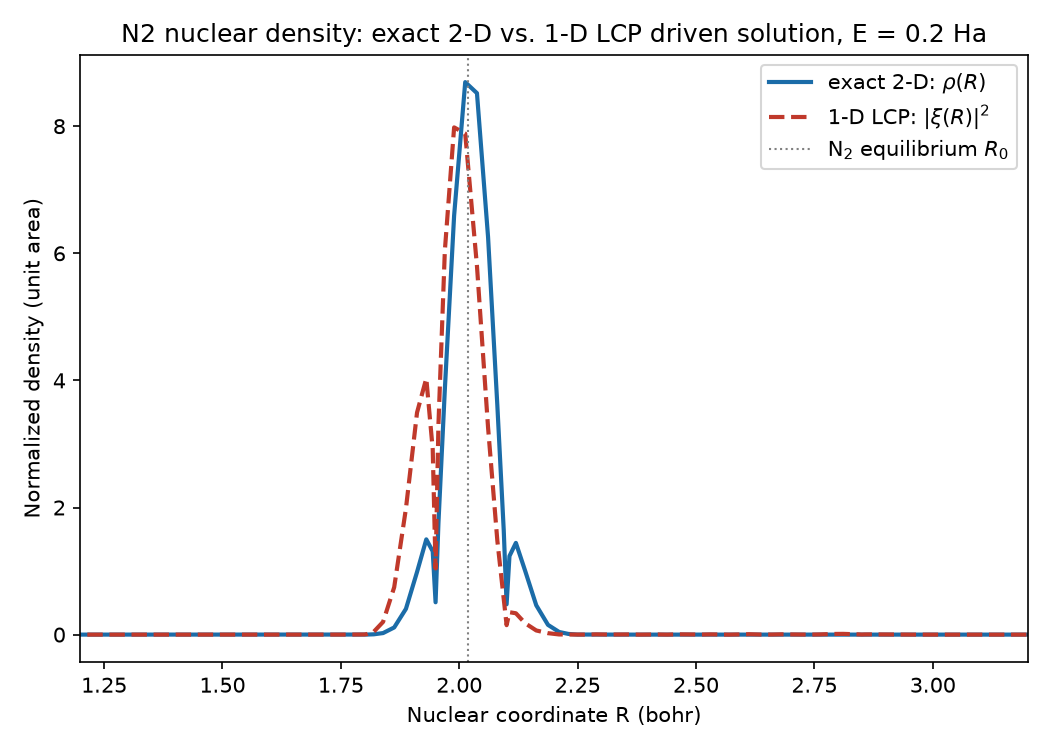
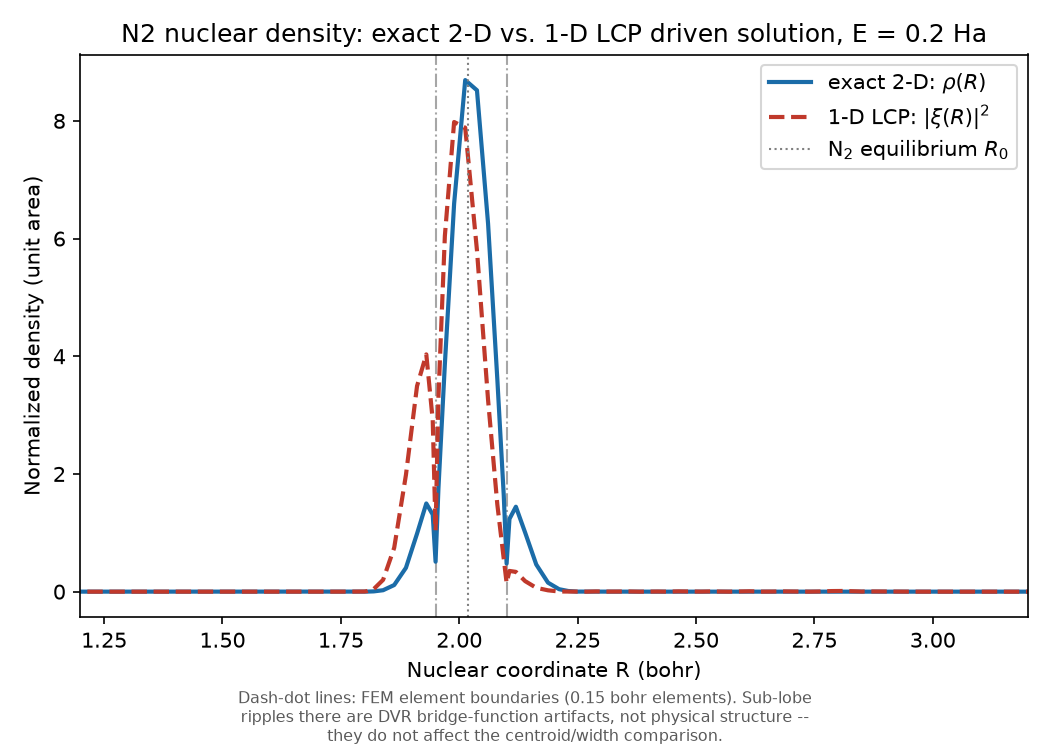
fix(n2-2d): correct nuclear-density figure/docstring re grid artifact
Review finding: the R ~ 1.95/2.10 bohr sub-lobe ripples in the nuclear-
density comparison were mischaracterized as physical vibrational/resonance
nodal structure. They are FEM element-boundary artifacts -- the nuclear
grid tiles [1.5, 3.0] bohr in 0.15-bohr elements (nuclear_grid.py:29-34),
giving boundaries at 1.80, 1.95, 2.10, 2.25, exactly where the ripples sit
in both curves (classic DVR bridge-function ringing). The centroid/width
comparison is unaffected (trapezoid integration is robust to it; both
curves show the artifact at the same points) -- those numbers are
unchanged: centroid_exact=2.0248, width_exact=0.0530, centroid_lcp=1.9894,
width_lcp=0.0639 bohr.

Regenerated the figure with the element boundaries marked and a caption
explaining the artifact, so it no longer misleads a reader. Also fixed the
stale "np.trapz" docstring wording (code uses np.trapezoid; np.trapz was
deprecated in numpy 2.0, not "removed").

Changed region(s): [[0.0305, 0.092, 1.0, 1.0], [0.0, 0.2453, 0.061, 0.7053], [0.0305, 0.1533, 0.061, 0.184]]

diff --git a/projects/n2_2d_cross_section/nuclear_density.py b/projects/n2_2d_cross_section/nuclear_density.py
@@ -31,8 +31,10 @@ DVR-coefficient convention (see `cross_section_2d.py`'s and
 IS the physical density weight at grid point `(r_i, R_j)` -- no extra
 quadrature-weight factor is applied when summing over `i`. This was
 sanity-checked here by requiring `nuclear_density`'s output to integrate
-(via `np.trapz` over the real `R` points) to a finite, strictly positive
+(via `np.trapezoid` over the real `R` points) to a finite, strictly positive
 number for a genuine driven solution -- see `test_nuclear_density.py`.
+`np.trapz` was deprecated in numpy 2.0 and is unavailable here (numpy
+2.5.1 pinned); `np.trapezoid` is used throughout instead.
 
 The 1-D LCP driven solution `xi(R)` faithfully reproduces sub-project #3's
 `ve_cross_section` (`projects/n2_ti_cross_section/cross_section.py`): that
